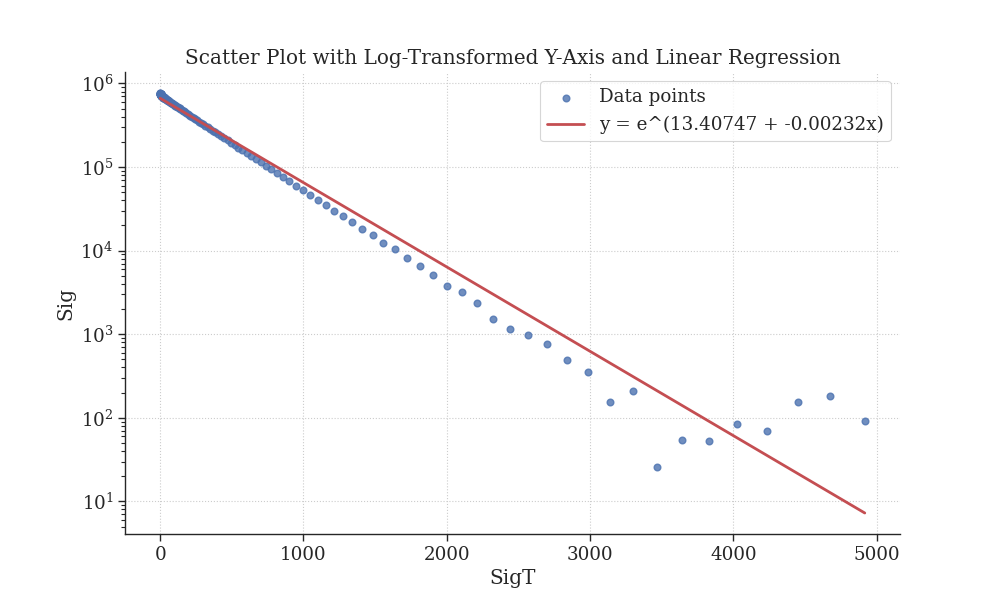
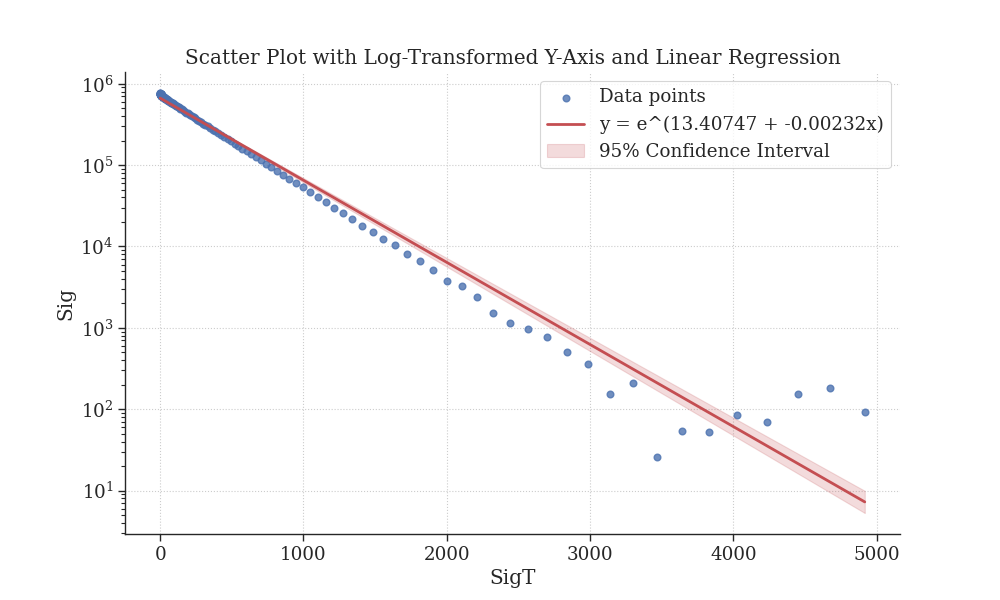
implemented IR scatterplots

diff --git a/Lab1_T1&T2_weighting/T1T2fromUpen.py b/Lab1_T1&T2_weighting/T1T2fromUpen.py
@@ -5,6 +5,7 @@ import seaborn as sns
 import os
 from scipy import stats
 from scipy.optimize import curve_fit
+from scipy.stats import t
 
 
 FIGURE_PATH = 'figures'
@@ -18,6 +19,9 @@ IR_YOLK = 'IRtuorloH.dat'
 
 
 def read_table(PATH):
+    """
+    Returns a pd.dataframe obtained from .dat file
+    """
     data = os.path.join(DATA_PATH, PATH)
     table = pd.read_csv(data) 
     table = table.dropna()
@@ -28,25 +32,23 @@ def read_table(PATH):
 
 
 def cut_dataframe(table, column, threshold):
+    """
+    Filters all the dataframe element with value greater then a given threshold
+    """
     table = table.loc[table[column] <= threshold].copy()
     return table
 
 
 def T2_estimate_weighted_avg(table):
-    # Summing and weighting
-    #table = table.dropna(subset=["SigT", "Sig"])
+    """
+    Returns an estimate of T2 computed as the weighted average
+    of all T2 obtained from UPEN.
+    """
     sumDistrT2 = table["Sig_Np"].sum(skipna=True)
     weightsT2 = table["Sig_Np"] / sumDistrT2
     T2 = (table["T"] * weightsT2).sum(skipna=True)
 
-    filtered_table = cut_dataframe(table, 'SigT', threshold=5000)
-    sumDistrT2_filtered = filtered_table["Sig_Np"].sum(skipna=True)
-    weightsT2_filtered = filtered_table["Sig_Np"] / sumDistrT2_filtered
-    T2_filtered = (table["T"] * weightsT2_filtered).sum(skipna=True)
-    print(f'T2: {T2}')
-    print(f'T2_filtered: {T2_filtered}')
-
-    return T2, T2_filtered
+    return T2
 
 
 def T2_plots(table, figure_name1, figure_name2):
@@ -103,13 +105,28 @@ def T2_plots(table, figure_name1, figure_name2):
     fit_parameters = stats.linregress(table["SigT"], np.log(table["Sig"]))
     intercept = fit_parameters[1] 
     slope = fit_parameters[0]
-    print(fit_parameters)
+    stderr = fit_parameters.stderr
+
     x_space = np.linspace(np.finfo(float).eps, max(table["SigT"]), 1000)
     y_pred = np.exp(intercept + slope * x_space)
 
+    # Calculate confidence interval
+    # Calculate standard error of prediction (SEP) for each x_space value
+    # This accounts for the variability in the predictions along the regression line
+    se_pred = stderr * np.sqrt(1 + 1/len(table) + (x_space - table["SigT"].mean())**2 / np.sum((table["SigT"] - table["SigT"].mean())**2))
+
+    # 95% confidence interval using the t-distribution
+    t_value = stats.t.ppf(0.975, len(table) - 2)  # 2 parameters estimated (intercept and slope)
+    conf_interval = t_value * se_pred
+
+    # Plot confidence interval
+    lower_bound = np.exp((intercept + conf_interval) + (slope - conf_interval)* x_space)
+    upper_bound = np.exp((intercept - conf_interval) + (slope + conf_interval) * x_space)
+
     plt.figure(figsize=(10, 6))
-    sns.regplot(data=table, x = "SigT", y = "Sig", fit_reg=False, label="Data points")
+    sns.regplot(data=table, x="SigT", y="Sig", fit_reg=False, label="Data points")
     plt.plot(x_space, y_pred, color='r', linestyle='-', linewidth=2, label=f'y = e^({intercept:.5f} + {slope:.5f}x)')
+    plt.fill_between(x_space, lower_bound, upper_bound, color='r', alpha=0.2, label='95% Confidence Interval')
     plt.xlabel("SigT")
     plt.ylabel("Sig")
     plt.ticklabel_format(style='sci', axis='y', scilimits=(0,0)) 
@@ -132,7 +149,7 @@ def T1_estimate_weighted_avg(table):
     sumDistrT1 = table["Sig_Np"].sum(skipna=True)
     weightsT1 = table["Sig_Np"] / sumDistrT1
     T1 = (table["T"] * weightsT1).sum(skipna=True)
-    print(f'T1: {T1}')
+
     return T1
 
 
@@ -151,8 +168,8 @@ def T1_plots(table, figure_name1, figure_name2):
     # Customize
     sns.set_theme(style="ticks")
     sns.set_context("paper", font_scale=1.5)
-    plt.rcParams["font.family"] = "serif"  
-    plt.rcParams["axes.grid"] = True  
+    plt.rcParams["font.family"] = "serif"
+    plt.rcParams["axes.grid"] = True
     plt.rcParams["grid.linestyle"] = ":" 
     plt.rcParams['axes.spines.right'] = False 
     plt.rcParams['axes.spines.top'] = False
@@ -174,7 +191,7 @@ def T1_plots(table, figure_name1, figure_name2):
     plt.figure(figsize=(10,6))
     sns.regplot(x = time, y = signal, fit_reg=False, label="Data points")
     #plt.scatter(time, signal)
-
+    
     B0 = [1.5e06, -1/1000, 0.8]
     popt, _ = curve_fit(fnc, time, signal, p0=B0)
     plt.plot(time, fnc(time, *popt), color='r', label='Fitted curve')
@@ -187,6 +204,46 @@ def T1_plots(table, figure_name1, figure_name2):
     plt.savefig(os.path.join(FIGURE_PATH, figure_name2))
 
 
+def inversion_recovery_plots(table_yolk, table_albumen, figure_name):
+    # Converting columns to numeric types
+    table_yolk["Sig_Np"] = pd.to_numeric(table_yolk["Sig_Np"], errors='coerce')
+    table_yolk["T"] = pd.to_numeric(table_yolk["T"], errors='coerce')
+    table_yolk["SigT"] = pd.to_numeric(table_yolk["SigT"], errors='coerce')
+    table_yolk["Sig"] = pd.to_numeric(table_yolk["Sig"], errors='coerce')
+
+    table_albumen["Sig_Np"] = pd.to_numeric(table_albumen["Sig_Np"], errors='coerce')
+    table_albumen["T"] = pd.to_numeric(table_albumen["T"], errors='coerce')
+    table_albumen["SigT"] = pd.to_numeric(table_albumen["SigT"], errors='coerce')
+    table_albumen["Sig"] = pd.to_numeric(table_albumen["Sig"], errors='coerce')
+
+    # Customize
+    sns.set_theme(style="ticks")
+    sns.set_context("paper", font_scale=1.5)
+    plt.rcParams["font.family"] = "serif"
+    plt.rcParams["axes.grid"] = True
+    plt.rcParams["grid.linestyle"] = ":" 
+    plt.rcParams['axes.spines.right'] = False 
+    plt.rcParams['axes.spines.top'] = False
+
+    time_yolk = table_yolk["SigT"].values[:64]
+    signal_yolk = -1 * table_yolk["Sig"].values[:64]
+    signal_yolk = signal_yolk - np.min(signal_yolk) / 2
+    plt.figure(figsize=(10,6))
+    sns.regplot(x = time_yolk, y = signal_yolk, fit_reg=False, label="Yolk data points")
+
+    time_albumen = table_albumen["SigT"].values[:64]
+    signal_albumen = -1 * table_albumen["Sig"].values[:64]
+    signal_albumen = signal_albumen - np.min(signal_albumen) / 2
+    sns.regplot(x = time_albumen, y = signal_albumen, fit_reg=False, label="Albumen data points")
+
+    plt.xlabel("SigT")
+    plt.ylabel("Sig")
+    plt.ticklabel_format(style='sci', axis='y', scilimits=(0,0)) 
+    plt.title("Non-linear Model Fit")
+    plt.legend()
+    plt.grid(True)
+    plt.savefig(os.path.join(FIGURE_PATH, figure_name))
+
 if __name__ == '__main__':
     table_CPMG_albumen = read_table(CPMG_ALBUMEN)
     table_CPMG_yolk = read_table(CPMG_YOLK)
@@ -195,7 +252,8 @@ if __name__ == '__main__':
 
     
     T2_plots(table_CPMG_albumen, "ALBUMEN_T2_Upen_Inverted", "ALBUMEN_T2_Upen_output&fit")
-    T2_estimate_weighted_avg(table_CPMG_albumen)
+    T2 = T2_estimate_weighted_avg(table_CPMG_albumen)
+    print(T2)
     T2_plots(table_CPMG_yolk, "YOLK_T2_Upen_Inverted", "YOLK_T2_Upen_output&fit")
     T2_estimate_weighted_avg(table_CPMG_yolk)
 
@@ -203,3 +261,5 @@ if __name__ == '__main__':
     T1_estimate_weighted_avg(table_IR_albumen)
     T1_plots(table_IR_yolk, "YOLK_T1_Upen_Inverted", "YOLK_T1_Upen_output&fit")
     T1_estimate_weighted_avg(table_IR_yolk)
+
+    inversion_recovery_plots(table_IR_yolk, table_IR_albumen, "IR_scatter_plots")
